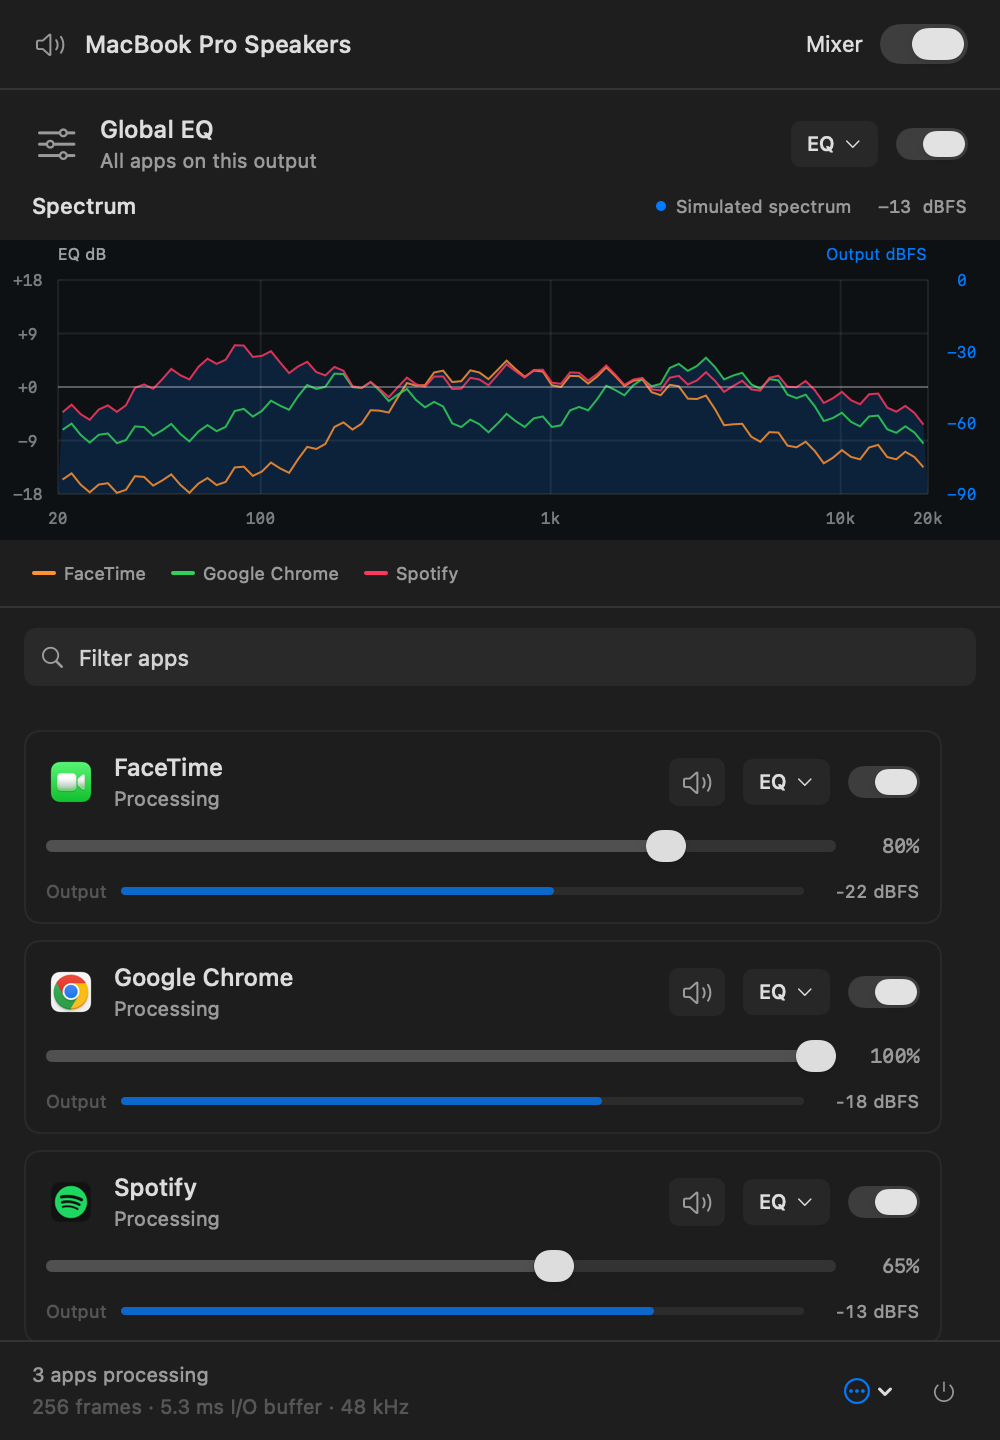
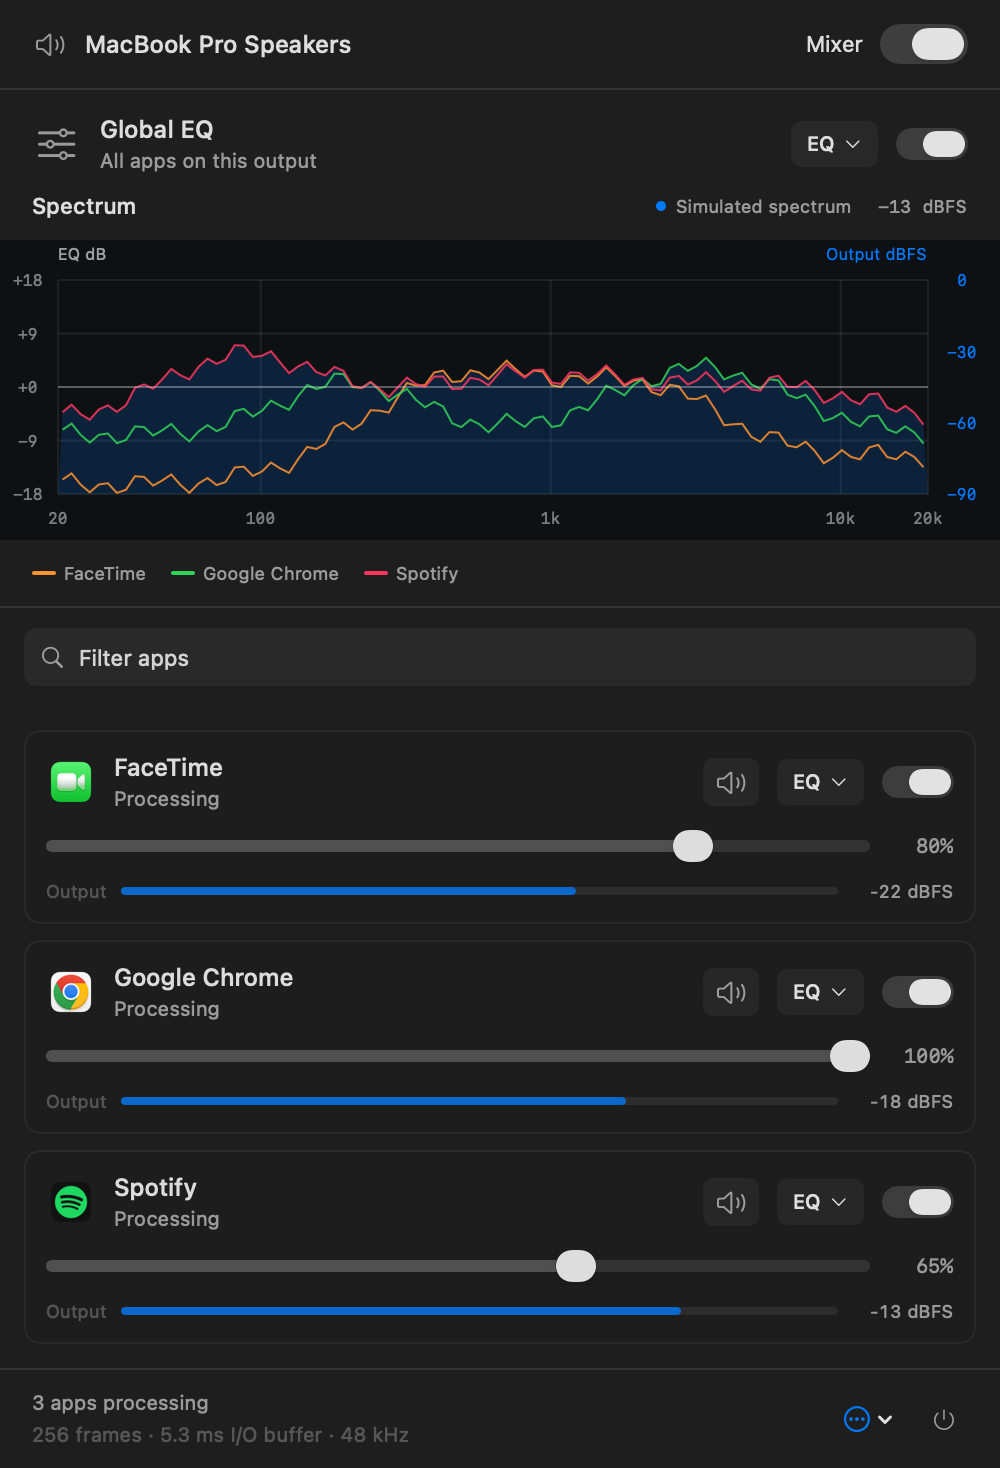
Expand popup height and group global EQ controls above search

diff --git a/AppMixer/App/Sources/ScreenshotRenderer.swift b/AppMixer/App/Sources/ScreenshotRenderer.swift
@@ -109,17 +109,17 @@ struct ScreenshotRenderer {
         }
         simulateSpectra()
         host.rootView = MixerView(model: model).environment(\.controlActiveState, .active).id("mixer")
-        try capture("mixer", maximum: 720)
+        try capture("mixer", maximum: MixerModel.panelHeightLimit)
         model.snapshot.apps = [zoom]
         model.selectedEQ = zoom.id
         simulateSpectra()
         host.rootView = MixerView(model: model).environment(\.controlActiveState, .active).id("equalizer")
-        try capture("equalizer", maximum: 720)
+        try capture("equalizer", maximum: MixerModel.panelHeightLimit)
         model.globalEQ.bands = EQPreset.warm.bands
         model.selectedEQ = MixerModel.globalEQID
         simulateSpectra()
         host.rootView = MixerView(model: model).environment(\.controlActiveState, .active).id("global-equalizer")
-        try capture("global-equalizer", maximum: 720)
+        try capture("global-equalizer", maximum: MixerModel.panelHeightLimit)
         model.snapshot.apps = (0..<15).map {
             AudioApplication(id: "sample-\($0)", name: "Sample app \($0 + 1)", playing: true)
         }
@@ -127,7 +127,9 @@ struct ScreenshotRenderer {
         model.enabled = false
         model.telemetry = AudioTelemetry()
         let longSize = layout()
-        guard abs(longSize.height - 720) <= 1 else { throw NSError(domain: "QEQ layout", code: 2) }
+        guard abs(longSize.height - MixerModel.panelHeightLimit) <= 1 else {
+            throw NSError(domain: "QEQ layout", code: 2)
+        }
         print("long list capped: \(Int(longSize.height)) pt")
         model.maximumPanelHeight = 460
         let smallScreenSize = layout()

diff --git a/AppMixer/App/Sources/MixerView.swift b/AppMixer/App/Sources/MixerView.swift
@@ -50,14 +50,6 @@ struct MixerView: View {
             }.trackHeight("header")
             ScrollView {
                 VStack(spacing: 8) {
-                    if model.selectedEQ == MixerModel.globalEQID {
-                        ParametricEQView(
-                            model: model, appID: MixerModel.globalEQID,
-                            controlsOnly: true, selection: $globalBand
-                        )
-                        .padding(.horizontal, 4).padding(.vertical, 10)
-                        Divider()
-                    }
                     if apps.isEmpty {
                         VStack(spacing: 8) {
                             Text(search.isEmpty ? "No audio apps yet" : "No matching apps").font(
@@ -157,6 +149,13 @@ struct MixerView: View {
             ParametricEQView(
                 model: model, appID: MixerModel.globalEQID, compact: true,
                 overviewHandles: selected, selection: $globalBand)
+            if selected {
+                ParametricEQView(
+                    model: model, appID: MixerModel.globalEQID,
+                    controlsOnly: true, selection: $globalBand
+                )
+                .padding(.horizontal, 16).padding(.top, 4)
+            }
         }.padding(.bottom, 10)
     }
     private func appCard(_ app: AudioApplication) -> some View {

diff --git a/AppMixer/App/Sources/App.swift b/AppMixer/App/Sources/App.swift
@@ -13,7 +13,8 @@ final class MixerModel: ObservableObject {
     @Published var changing = false
     @Published var selectedEQ: String?
     @Published var telemetry = AudioTelemetry()
-    @Published var maximumPanelHeight: CGFloat = 720
+    static let panelHeightLimit: CGFloat = 1000
+    @Published var maximumPanelHeight: CGFloat = MixerModel.panelHeightLimit
     private let preview: Bool
     private var panelVisible = false
     private let engine = MixerEngine()
@@ -183,7 +184,8 @@ final class AppDelegate: NSObject, NSApplicationDelegate, NSPopoverDelegate {
     private func showPopover() {
         guard let button = item.button else { return }
         model.maximumPanelHeight = min(
-            720, max(280, (button.window?.screen ?? NSScreen.main)?.visibleFrame.height ?? 768) - 48)
+            MixerModel.panelHeightLimit,
+            max(280, (button.window?.screen ?? NSScreen.main)?.visibleFrame.height ?? 768) - 48)
         model.setPanelVisible(true)
         NSApp.activate(ignoringOtherApps: true)
         popover.show(relativeTo: button.bounds, of: button, preferredEdge: .minY)

diff --git a/CHANGELOG.md b/CHANGELOG.md
@@ -1,5 +1,10 @@
 # Changelog
 
+## Unreleased
+
+- Increase the popup height limit from 720 to 1,000 points, capped to the available screen height, to give scrolling app controls more room.
+- Keep expanded Global EQ controls attached to the graph, above the pinned app search.
+
 ## 0.1.0-rc.5 — 2026-11-02
 
 - Pin search above the app list and refresh screenshots with explicitly simulated spectra.
